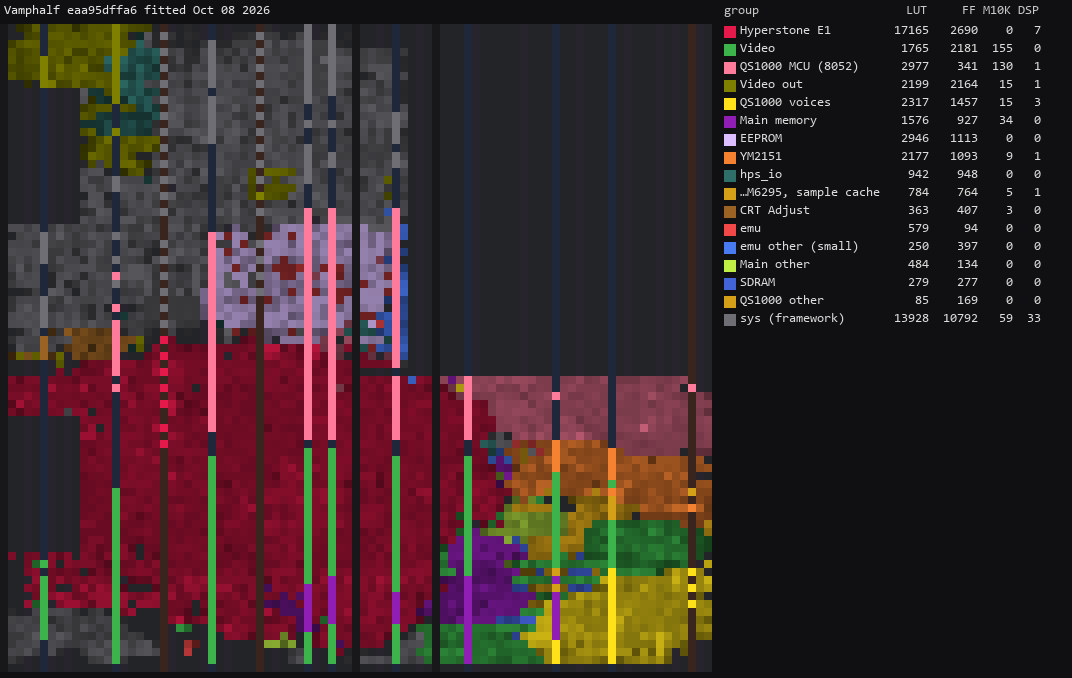
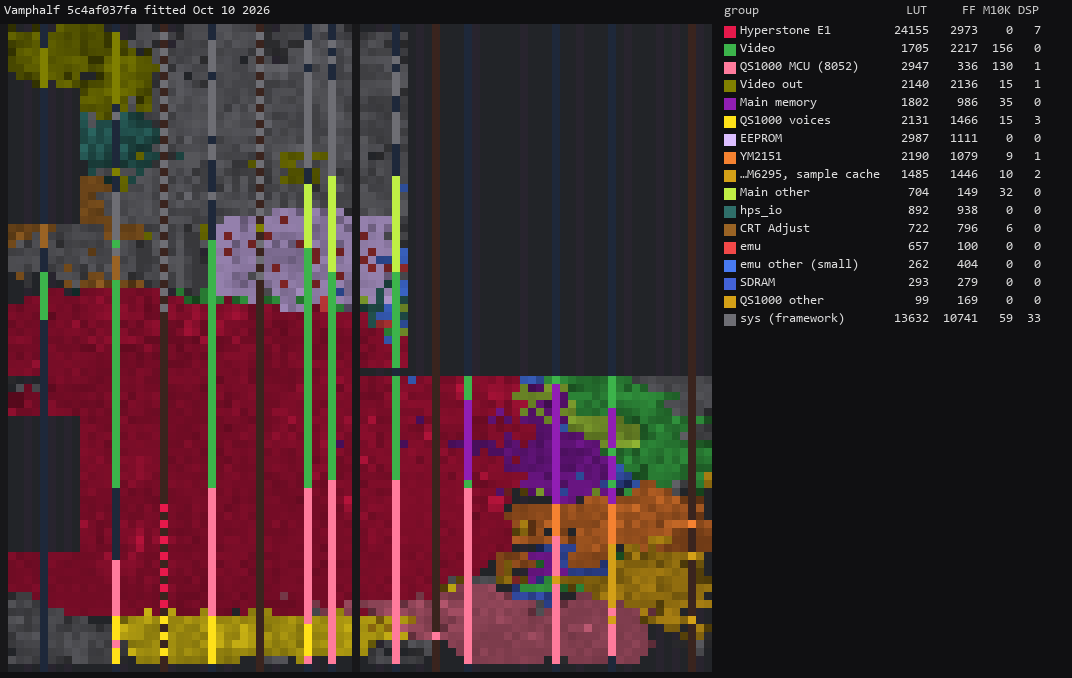
README: floorplan of the 20261010 release build; the CPU is rtl/e1/e1_pipe.sv, and its verification
The floorplan is read from the release build (5c4af03, seed 3). The Hardware table names the pipelined
CPU, built from the multi-cycle e1_cpu.sv, which stays as the reference. e1_pipe passes the full-state
traces e1_cpu does: Mission Craft's first 1,000,000 instructions and Wivern Wings' first 8,000,000, at 0
and 3 wait states.

diff --git a/README.md b/README.md
@@ -107,7 +107,7 @@ YM2151 and two M6295s (Age Of Heroes: a 384 x 224 screen and 18-bit sprite codes
 
 | Chip | Function | Status |
 |-|-|-|
-| Hyperstone E1-16T / GMS30C2116, E1-32T, 50 MHz | Main CPU | Written here (`rtl/e1/e1_cpu.sv`) from MAME's `e132xs`, multi-cycle, behind a 16 KB I-cache and a 4 KB D-cache (`rtl/vh_cpumem.sv`) |
+| Hyperstone E1-16T / GMS30C2116, E1-32T, 50 MHz | Main CPU | Written here from MAME's `e132xs`: `rtl/e1/e1_pipe.sv`, pipelined (fetch and operand read run ahead of execute; the next instruction goes in beside the last clock of an ALU instruction, a load or store, or a predicted branch), built from the multi-cycle `rtl/e1/e1_cpu.sv`, which stays as the reference; behind a 16 KB I-cache and a 4 KB D-cache (`rtl/vh_cpumem.sv`) |
 | Sprites and palette | Video | Written here (`rtl/video/vh_video.sv`): rendered per scanline from a copy of the sprite list taken once a frame |
 | QS1000 (8052 + 32-voice wavetable) | Sound, QS1000 boards | 8052: jotego's JT8051, changed (`rtl/qs1000/PROVENANCE.md`); wavetable written here from MAME's `qs1000.cpp` (`rtl/qs1000/vh_qs1000_voice.sv`) |
 | YM2151 | FM sound | jotego's JT51 (`rtl/sound/PROVENANCE.md`) |
@@ -126,7 +126,7 @@ board's dot clock is 14.318181 MHz / 2 = 7.159 MHz (60.53 Hz, `:1251`); the core
 
 Where the logic sits on the Cyclone V, read from the compiled design with `scripts/floorplan.py` (blocks defined in `scripts/floorplan.json`). One cell per LAB, M10K or DSP site, coloured by the block owning most of it, brighter when fuller. The thin columns are M10K and DSP; the empty area at the top right is the HPS; grey is the MiSTer framework. LUT counts are combinational cells, two per ALM.
 
-Revision `Vamphalf`, fitted 08 Oct 2026:
+Revision `Vamphalf` at `5c4af03` (the 20261010 release), fitted 10 Oct 2026:
 
 ![Floorplan of Vamphalf](docs/floorplan/Vamphalf.png)
 
@@ -208,10 +208,10 @@ instruction (both below). Where the core
 follows MAME on something MAME marks as uncertain, it is listed in `docs/MAME_KLUDGES.md`; the core's own
 approximations are in `docs/HACKS.md`.
 
-* CPU: `rtl/e1/e1_cpu.sv` agrees with MAME's interpreter after every instruction (PC, SR, all registers,
-  every bus access), at 0 and 3 bus wait states, on Mission Craft's first 1,000,000 instructions, Wivern
-  Wings' first 8,000,000 (E1-32) and the random conformance suite (`scripts/e1_regress.py`, 255 of 255
-  primary opcodes).
+* CPU: `rtl/e1/e1_pipe.sv`, and `rtl/e1/e1_cpu.sv` it was built from, agree with MAME's interpreter after
+  every instruction (PC, SR, all registers, every bus access), at 0 and 3 bus wait states, on Mission
+  Craft's first 1,000,000 instructions, Wivern Wings' first 8,000,000 (E1-32) and the random conformance
+  suite (`scripts/e1_regress.py`, 255 of 255 primary opcodes; `--replay --pipe` for `e1_pipe`).
 * Whole board (`sim/sys_tb`, the SDRAM controller and a chip model) against MAME's trace from reset:
   1,000,000 of 1,000,000 instructions on `misncrft`, `coolmini`, `mrkicker`, `mrkickera`, `jmpbreak`, `mrdig`,
   `suplup`, `worldadv`, `boonggab` and `finalgdr`; 893,119 on `vamphalf` and 869,671 on `solitaire`, each

diff --git a/docs/floorplan/Vamphalf_groups.md b/docs/floorplan/Vamphalf_groups.md
@@ -1,21 +1,21 @@
-# Floorplan: Vamphalf eaa95dffa6 fitted Oct 08 2026
+# Floorplan: Vamphalf 5c4af037fa fitted Oct 10 2026
 
 | group | LUT | FF | MLAB | M10K | DSP | X | Y |
 |---|---|---|---|---|---|---|---|
-| Hyperstone E1 | 17165 | 2690 | 320 | 0 | 7 | 1-66 | 2-41 |
-| Video | 1765 | 2181 | 0 | 155 | 0 | 4-88 | 1-27 |
-| QS1000 MCU (8052) | 2977 | 341 | 0 | 130 | 1 | 14-88 | 27-57 |
-| Video out | 2199 | 2164 | 0 | 15 | 1 | 1-48 | 38-80 |
-| QS1000 voices | 2317 | 1457 | 0 | 15 | 3 | 57-88 | 1-35 |
-| Main memory | 1576 | 927 | 0 | 34 | 0 | 31-73 | 1-44 |
-| EEPROM | 2946 | 1113 | 0 | 0 | 0 | 25-48 | 41-55 |
-| YM2151 | 2177 | 1093 | 0 | 9 | 1 | 62-88 | 18-28 |
-| hps_io | 942 | 948 | 0 | 0 | 0 | 10-66 | 25-79 |
-| OKI M6295, sample cache | 784 | 764 | 0 | 5 | 1 | 64-88 | 8-27 |
-| CRT Adjust | 363 | 407 | 0 | 3 | 0 | 1-16 | 39-44 |
-| emu | 579 | 94 | 0 | 0 | 0 | 4-71 | 2-62 |
-| emu other (small) | 250 | 397 | 0 | 0 | 0 | 45-66 | 26-58 |
-| Main other | 484 | 134 | 0 | 0 | 0 | 31-71 | 3-41 |
-| SDRAM | 279 | 277 | 0 | 0 | 0 | 56-74 | 4-36 |
-| QS1000 other | 85 | 169 | 0 | 0 | 0 | 57-78 | 1-35 |
-| sys (framework) | 13928 | 10792 | 0 | 59 | 33 | 1-67 | 1-80 |
+| Hyperstone E1 | 24155 | 2973 | 320 | 0 | 7 | 1-68 | 7-47 |
+| Video | 1705 | 2217 | 0 | 156 | 0 | 5-88 | 10-53 |
+| QS1000 MCU (8052) | 2947 | 336 | 0 | 130 | 1 | 14-81 | 1-23 |
+| Video out | 2140 | 2136 | 0 | 15 | 1 | 1-40 | 54-80 |
+| Main memory | 1802 | 986 | 0 | 35 | 0 | 39-78 | 11-71 |
+| QS1000 voices | 2131 | 1466 | 0 | 15 | 3 | 14-56 | 1-10 |
+| EEPROM | 2987 | 1111 | 0 | 0 | 0 | 25-50 | 45-57 |
+| YM2151 | 2190 | 1079 | 0 | 9 | 1 | 59-88 | 11-23 |
+| OKI M6295, sample cache | 1485 | 1446 | 0 | 10 | 2 | 57-88 | 4-24 |
+| Main other | 704 | 149 | 0 | 32 | 0 | 38-80 | 6-62 |
+| hps_io | 892 | 938 | 0 | 0 | 0 | 7-71 | 29-74 |
+| CRT Adjust | 722 | 796 | 0 | 6 | 0 | 1-17 | 48-62 |
+| emu | 657 | 100 | 0 | 0 | 0 | 11-75 | 7-69 |
+| emu other (small) | 262 | 404 | 0 | 0 | 0 | 35-79 | 23-60 |
+| SDRAM | 293 | 279 | 0 | 0 | 0 | 64-80 | 8-24 |
+| QS1000 other | 99 | 169 | 0 | 0 | 0 | 40-75 | 3-13 |
+| sys (framework) | 13632 | 10741 | 0 | 59 | 33 | 1-88 | 1-80 |
